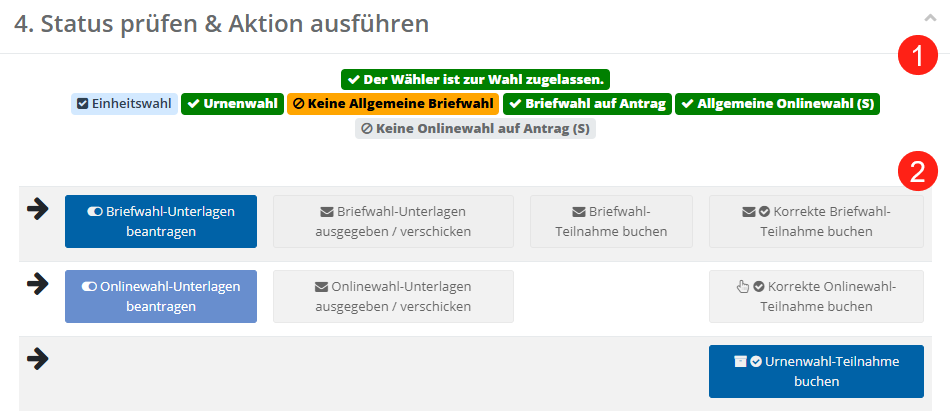
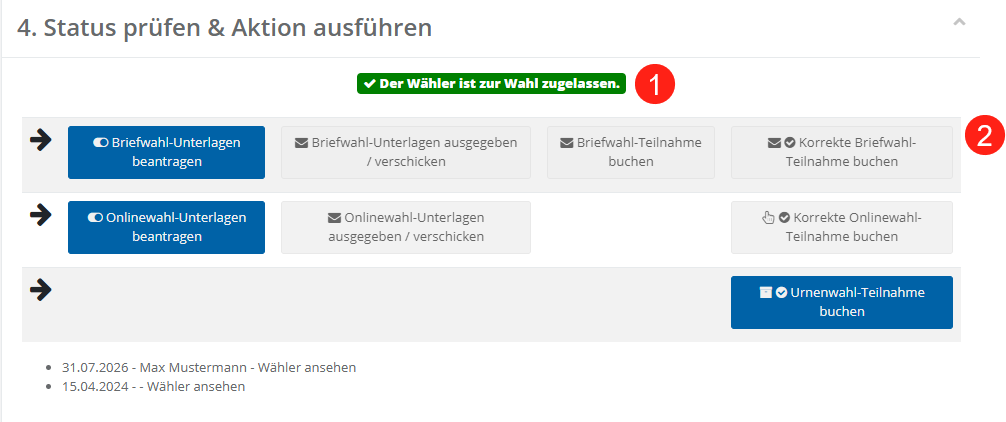
Textuelle Anpassungen WFU2

diff --git a/docs/06-wahlfunktionen/03-wfu2-waehleranfragen-bearbeiten/04-statusaenderungen-von-waehlern.md b/docs/06-wahlfunktionen/03-wfu2-waehleranfragen-bearbeiten/04-statusaenderungen-von-waehlern.md
@@ -22,15 +22,15 @@ Unterhalb der Wählerdaten befindet sich der Abschnitt **Status prüfen & Aktion
 ![](img/image166.png)
 *Übersicht: Status prüfen & Aktion ausführen*
 
-Im oberen Abschnitt (1) finden Sie eine Übersicht, ob der Wähler zur Wahl zugelassen ist und welche Wahlkanäle am aktuellen Standort erlaubt sind. Ist ein Wähler nicht zugelassen, wird dies mit der Begründung aus dem Wählerverzeichnis angezeigt.
+Im oberen Abschnitt (1) finden Sie eine Übersicht, ob der Wähler zur Wahl zugelassen ist. Ist ein Wähler nicht zugelassen, wird dies mit der Begründung aus dem Wählerverzeichnis angezeigt.
 
 ![](img/image167.png)
 *Meldung: nicht zur Wahl zugelassen*
 
-Darunter befinden sich die verfügbaren **Aktionen**, gegliedert nach Wahlkanälen (2): 1. Zeile Briefwahl, 2. Zeile Onlinewahl, 3. Zeile Urnenwahl / Wahl an Ort und Stelle.
-
-![](img/image168.png)
-*WFU2: Aktionen nach Wahlkanälen*
+Darunter befinden sich die verfügbaren **Aktionen**, gegliedert nach Wahlkanälen: 
+1. Zeile Briefwahl, 
+2. Zeile Onlinewahl, 
+3. Zeile Urnenwahl / Wahl an Ort und Stelle.
 
 ![](img/image169.png)
 *WFU2: Aktionsschaltflächen*
@@ -43,13 +43,10 @@ Die Schaltflächen visualisieren durch ihre Farbe den Status der zugehörigen Ak
 | --- | --- |
 | Dunkelblau | Löst eine Aktion aus (z. B. Beantragung von Briefwahlunterlagen). Nach dem Anklicken erscheint stets eine Bestätigungsabfrage. |
 | Hellblau | Wahlkanäle, die am Standort allgemein aktiv sind, jedoch nicht auf Antrag angeboten werden – dienen ausschließlich zur Nachbearbeitung, z. B. bei glaubhaftem Verlust von Wahlunterlagen. |
-| Grau | Aktuell nicht verfügbare Aktion. Da die Aktionen logisch aufeinander aufbauen (erst **beantragen**, dann **verschicken**), muss die vorherige Aktion zuerst erfolgen; ein Tooltip nennt den Grund. Hat ein Wähler bereits teilgenommen, gibt es keine blauen Flächen mehr. |
+| Grau | Aktuell nicht verfügbare Aktion. Da die Aktionen logisch aufeinander aufbauen (erst **beantragen**, dann **verschicken**), muss die vorherige Aktion zuerst erfolgen; ein Tooltip nennt den Grund.  |
 | Grün | Bereits gesetzte Statusinformation. |
 
 </div>
-
-![](img/image170.png)
-*Übereilungsschutz: Briefwahlunterlagen beantragen*
 
 | **Hinweis** ![](img/image9.png) |
 | --- |
@@ -58,8 +55,7 @@ Die Schaltflächen visualisieren durch ihre Farbe den Status der zugehörigen Ak
 ![](img/image171.png)
 *Beispiel: verfügbare und graue Schaltflächen*
 
-![](img/image172.png)
-*Nicht verfügbare (graue) Schaltflächen*
+
 
 ![](img/image173.png)
 *WFU2: bereits gesetzte Status (grün)*
@@ -71,7 +67,7 @@ Alle bereits durchgeführten Aktionen werden im **Wähler-Log** dokumentiert und
 
 | **Hinweis** ![](img/image9.png) |
 | --- |
-| Die direkte Ausgabe einzelner Briefwahlunterlagen im Wählerservice ist nur möglich, wenn entsprechende Vorlagen im System hinterlegt sind und der Benutzer über die notwendigen Berechtigungen verfügt. In der Regel wird lediglich der Antrag erfasst. Die eigentliche Erstellung erfolgt später gesammelt über die Wahlfunktion **WFU3 „Briefwahlunterlagen generieren"**. |
+| Die direkte Ausgabe einzelner Briefwahlunterlagen im Wählerservice ist nur möglich, wenn entsprechende Vorlagen im System hinterlegt sind und der Benutzer über die notwendigen Berechtigungen verfügt. Für die gesammelte Erstellung kann die Wahlfunktion **WFU3 Briefwahlunterlagen generieren** verwendet werden. |
 
 ## Erstellung einzelner Wahlunterlagen
 
@@ -82,8 +78,12 @@ Im Folgenden wird beispielhaft anhand einer Briefwahlunterlage erläutert, wie W
 
 Klicken Sie auf **„Briefwahl-Unterlagen beantragen"** und bestätigen Sie den Vorgang im Dialog mit „**Ja, Unterlagen beantragen**".
 
+<div style={{maxWidth: '400px'}}>
+
 ![](img/image170.png)
 *Übereilungsschutz: Briefwahlantrag*
+
+</div>
 
 ![](img/image176.png)
 *WFU2: Briefwahlunterlagen erzeugen*

diff --git a/docs/06-wahlfunktionen/03-wfu2-waehleranfragen-bearbeiten/02-durchfuehrung-von-standortwechseln-streichung.md b/docs/06-wahlfunktionen/03-wfu2-waehleranfragen-bearbeiten/02-durchfuehrung-von-standortwechseln-streichung.md
@@ -5,8 +5,8 @@ sidebar_position: 2
 
 # Durchführung von Standortwechseln – Streichung
 
-- Wurde Ihnen der Antrag einer Person zugeleitet, dass diese ihr Wahlrecht nicht mehr an ihrem Ursprungsstandort wahrnehmen möchte, müssen Sie die Streichung innerhalb von **Elektra** vornehmen. Hierfür ist ein standardisierter Prozess vorgesehen, der im Folgenden erläutert wird.
-- Nachdem Sie die betroffene Person über die **Wählersuche** gefunden haben, wählen Sie diese über die Checkbox im linken Bereich der Tabelle aus.
+Wurde Ihnen der Antrag einer Person zugeleitet, dass diese ihr Wahlrecht nicht mehr an ihrem Ursprungsstandort wahrnehmen möchte, müssen Sie die Streichung innerhalb von **Elektra** vornehmen. Hierfür ist ein standardisierter Prozess vorgesehen, der im Folgenden erläutert wird.
+Nachdem Sie die betroffene Person über die **Wählersuche** gefunden haben, wählen Sie diese über die Checkbox im linken Bereich der Tabelle aus.
 
 ![](img/image153.png)
 *WFU2: Wahlrecht exportieren*
@@ -30,13 +30,13 @@ Es öffnet sich ein Bestätigungsdialog. Prüfen Sie, ob die richtigen Personen 
 
 Nach der Bestätigung erscheinen zwei Fenster:
 
-- **Erfolgsmeldung:** Der Export wurde abgeschlossen. Notieren Sie das angezeigte **Abholtoken** – dieser wird benötigt, um die exportierten Wählenden an einem anderen Standort ins Wählendenverzeichnis aufzunehmen. Der Abholtoken ist ebenfalls in dem generierten Dokument vorhanden.
-- **Dokument-Download:** Automatisch wird ein Dokument generiert, das die Streichung aus dem Wählendenverzeichnis belegt. Speichern Sie dieses Dokument lokal und händigen Sie den betreffenden Personen die für sie vorgesehenen Seiten aus.
+1. **Erfolgsmeldung:** Der Export wurde abgeschlossen. Notieren Sie das angezeigte **Abholtoken** – dieser wird benötigt, um die exportierten Wählenden an einem anderen Standort ins Wählendenverzeichnis aufzunehmen. Der Abholtoken ist ebenfalls in dem generierten Dokument vorhanden.
+2. **Dokument-Download:** Automatisch wird ein Dokument generiert, das die Streichung aus dem Wählendenverzeichnis belegt. Speichern Sie dieses Dokument lokal und händigen Sie den betreffenden Personen die für sie vorgesehenen Seiten aus.
 
 ![](img/image157.png)
 *Abholtoken*
 
-Das erzeugte Dokument umfasst pro gestrichener Person **zwei Seiten**:
+Das erzeugte Dokument umfasst pro gestrichener Person im Regelfall **zwei Seiten**:
 
 - Die **Dokumentation der Streichung** inklusive der persönlichen Daten der betreffenden Person.
 - Den **Antrag zur Ausübung des Wahlrechts** an einer anderen Kirchengemeinde.

diff --git a/docs/06-wahlfunktionen/03-wfu2-waehleranfragen-bearbeiten/01-verwendung-der-waehlersuche.md b/docs/06-wahlfunktionen/03-wfu2-waehleranfragen-bearbeiten/01-verwendung-der-waehlersuche.md
@@ -5,7 +5,7 @@ sidebar_position: 1
 
 # Verwendung der Wählersuche
 
-- Die Bedienung der Wahlfunktion „**2) Wähleranfragen bearbeiten**“  folgt hierbei immer demselben Muster:
+Die Bedienung der Wahlfunktion „**2) Wähleranfragen bearbeiten**“  folgt hierbei immer demselben Muster:
 
 ![](img/image149.png)
 *WFU2: Bedienschema Wähleranfragen*
@@ -24,17 +24,17 @@ Zu Beginn wählen Sie das **Wahlbüro**, für das die Wähleranfrage bearbeitet 
 
 Geben Sie eine Suchbegrifflichkeit ein und suchen Sie den Wähler.
 
-- Um die Suche zu starten, geben Sie **mindestens drei Zeichen** in das Suchfeld ein und bestätigen Sie die Eingabe mit der **Enter-Taste**. Zur Identifikation der gesuchten Person zeigt die Tabelle weitere Merkmale an: die **laufende Nummer (Nr.)**, den **vollständigen Namen**, das **Geburtsdatum** und die **Adresse**.
+Um die Suche zu starten, geben Sie **mindestens drei Zeichen** in das Suchfeld ein und bestätigen Sie die Eingabe mit der **Enter-Taste**. Zur Identifikation der gesuchten Person zeigt die Tabelle weitere Merkmale an: die **laufende Nummer (Nr.)**, den **vollständigen Namen**, das **Geburtsdatum** und die **Adresse**.
 
 ![](img/image151.png)
 *WFU2: Wählersuche*
 
-- Aus **Datenschutzgründen** ist die Trefferliste auf eine begrenzte Anzahl von Einträgen reduziert. Führen die eingegebenen Suchkriterien zu zu vielen Treffern, wird eine entsprechende **Hinweismeldung** angezeigt.
+Aus **Datenschutzgründen** ist die Trefferliste auf eine begrenzte Anzahl von Einträgen reduziert. Führen die eingegebenen Suchkriterien zu zu vielen Treffern, wird eine entsprechende **Hinweismeldung** angezeigt.
 
 ![](img/image152.png)
 *WFU2: Begrenzte Trefferliste*
 
-- In diesem Fall verfeinern Sie die Suche durch zusätzliche Merkmale.
+In diesem Fall verfeinern Sie die Suche durch zusätzliche Merkmale.
 
 | **Hinweis** ![](img/image9.png) |
 | --- |

diff --git a/docs/06-wahlfunktionen/03-wfu2-waehleranfragen-bearbeiten/03-durchfuehrung-von-standortwechseln-aufnahme.md b/docs/06-wahlfunktionen/03-wfu2-waehleranfragen-bearbeiten/03-durchfuehrung-von-standortwechseln-aufnahme.md
@@ -5,8 +5,8 @@ sidebar_position: 3
 
 # Durchführung von Standortwechseln – Aufnahme
 
-- Wurde dem Antrag eines Wählenden, das Wahlrecht an Ihrem Standort auszuüben, stattgegeben, muss die Person in das **Wählerverzeichnis** Ihres Standortes aufgenommen werden.
-- Scrollen Sie innerhalb des **Wählerservices** nach unten, bis Sie den Abschnitt **Wahlrecht exportieren** sehen.
+Wurde dem Antrag eines Wählenden, das Wahlrecht an Ihrem Standort auszuüben, stattgegeben, muss die Person in das **Wählerverzeichnis** Ihres Standortes aufgenommen werden.
+Scrollen Sie innerhalb des **Wählerservices** nach unten, bis Sie den Abschnitt **Wahlrecht exportieren** sehen.
 
 ![](img/image158.png)
 *Wahlrecht importieren*
@@ -37,5 +37,9 @@ In der Tabelle können Sie nun die Wählenden auswählen, die ihr Wahlrecht an I
 
 Daraufhin öffnet sich der Übereilungsschutz, welchen Sie mit der Schaltfläche „**Wahlrecht importieren**“ bestätigen können.
 
+<div style={{maxWidth: '400px'}}>
+
 ![](img/image163.png)
 *Wahlrechtimport: Übereilungsschutz*
+
+</div>
